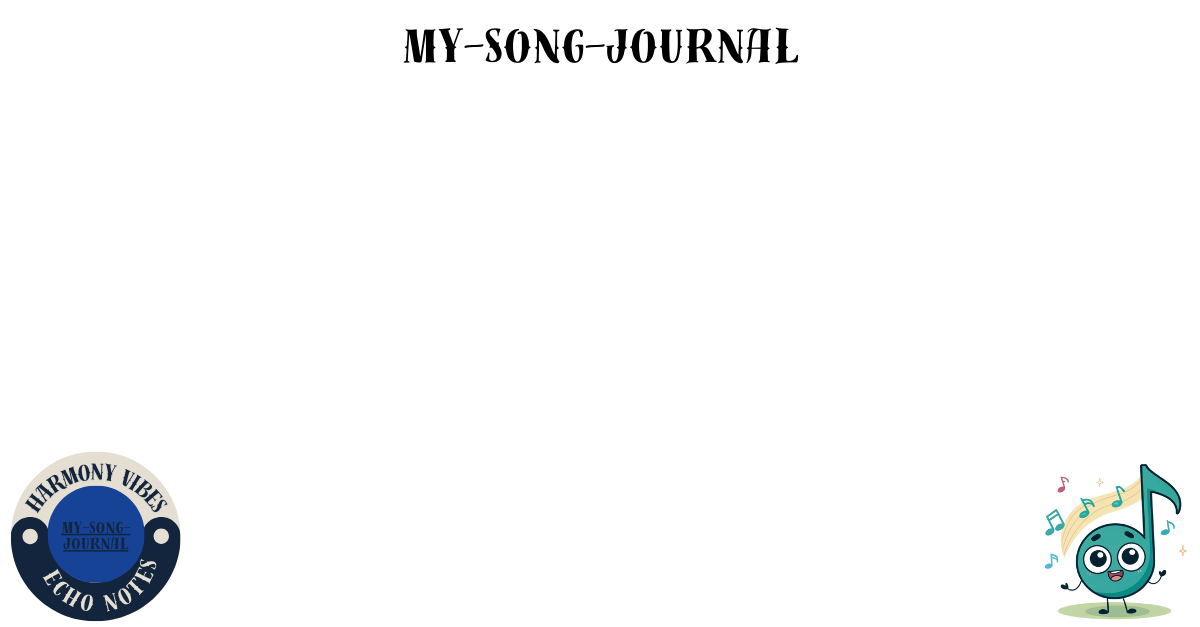
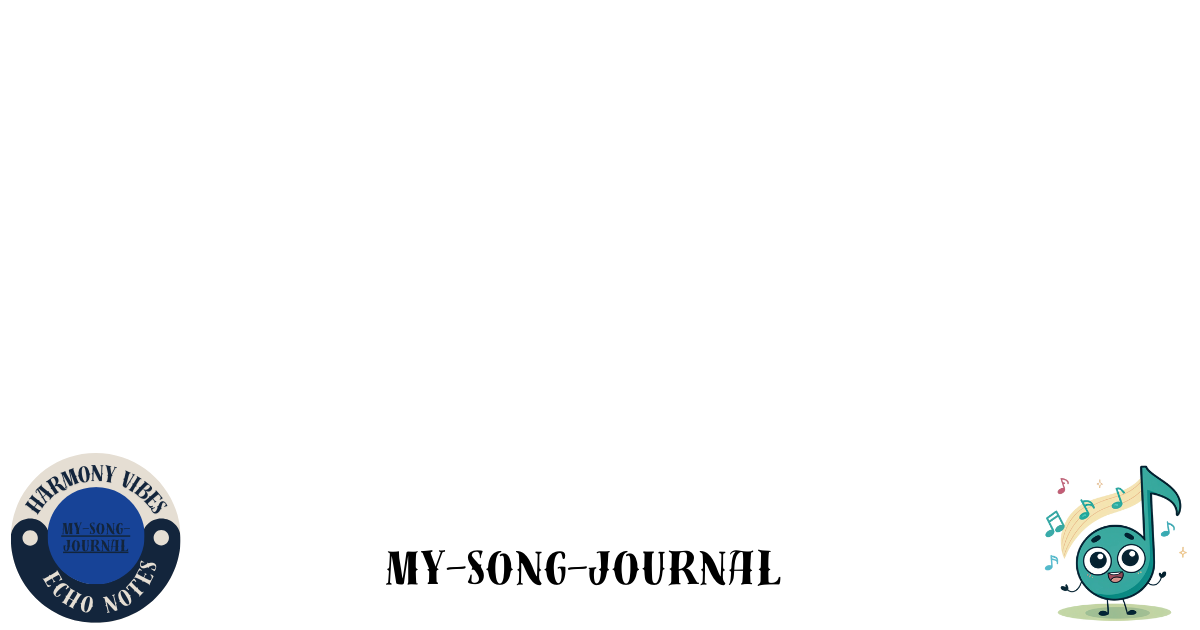
OGP画像の修正

diff --git a/app/controllers/concerns/ogp_creator.rb b/app/controllers/concerns/ogp_creator.rb
@@ -6,18 +6,17 @@ class OgpCreator
   SUBTITLE_FONT_SIZE = 30
   IMAGE_WIDTH = 1200
   IMAGE_HEIGHT = 630
-  ALBUM_IMAGE_SIZE = 380
-  ALBUM_Y_OFFSET = 100
-  TITLE_Y_OFFSET = 70
-  SUBTITLE_Y_OFFSET = 20
+  ALBUM_IMAGE_SIZE = 400
+  ALBUM_Y_OFFSET = 130
 
   def self.build(text, album_image_url = nil)
     Rails.logger.info "=== OGP Image Generation Debug Info ==="
     Rails.logger.info "Input text: #{text.inspect}"
     Rails.logger.info "Album URL: #{album_image_url.inspect}"
 
-    title = "Today's song"
-    subtitle = text.sub(/^Today's song\s*/, "").strip
+    # テキストを行ごとに分割
+    lines = text.split("\n")
+    Rails.logger.info "Split text into lines: #{lines.inspect}"
 
     # ベース画像を読み込む
     base_image = MiniMagick::Image.open(BASE_IMAGE_PATH)
@@ -31,7 +30,7 @@ class OgpCreator
         album_image.resize "#{ALBUM_IMAGE_SIZE}x#{ALBUM_IMAGE_SIZE}"
 
         # 一時ファイルに保存
-        temp_album = Tempfile.new([ "album", ".png" ])
+        temp_album = Tempfile.new(["album", ".png"])
         album_image.write(temp_album.path)
 
         # 画像を合成
@@ -49,38 +48,33 @@ class OgpCreator
       end
     end
 
-    # 一時ファイルに保存
-    temp_base = Tempfile.new([ "base", ".png" ])
-    base_image.write(temp_base.path)
+    # テキストを追加
+    base_image.combine_options do |c|
+      c.font FONT_PATH
+      c.fill "black"
+      c.gravity "north"
 
-    begin
-      # テキストを追加
-      result = MiniMagick::Image.open(temp_base.path)
-
-      # タイトルを追加
-      result.combine_options do |c|
-        c.gravity "south"
-        c.font FONT_PATH
+      # タイトル（Today's song）
+      if lines[0].present?
         c.pointsize FONT_SIZE
-        c.fill "black"
-        c.annotate "+0+#{TITLE_Y_OFFSET}", title
+        c.draw %Q{text 0,40 "#{lines[0].gsub('"', '\\"')}"}
       end
 
-      # サブタイトルを追加
-      result.combine_options do |c|
-        c.gravity "south"
-        c.font FONT_PATH
+      # 曲名とアーティスト名（1行にまとめる）
+      if lines[1].present? && lines[2].present?
         c.pointsize SUBTITLE_FONT_SIZE
-        c.fill "black"
-        c.annotate "+0+#{SUBTITLE_Y_OFFSET}", subtitle
+        c.draw %Q{text 0,90 "#{lines[1].gsub('"', '\\"')}  #{lines[2].gsub('"', '\\"')}"}
       end
-
-      # 最終画像をバイナリで返す
-      result.to_blob
-    ensure
-      temp_base.close
-      temp_base.unlink
     end
+
+    base_image.format "png"
+    result = base_image.to_blob
+    
+    # 画像サイズをログに出力
+    size_in_mb = (result.bytesize.to_f / 1024 / 1024).round(2)
+    Rails.logger.info "Generated OGP image size: #{size_in_mb}MB"
+    
+    result
   rescue => e
     Rails.logger.error "Error in OgpCreator.build: #{e.message}"
     Rails.logger.error e.backtrace.join("\n")

diff --git a/app/controllers/journals_controller.rb b/app/controllers/journals_controller.rb
@@ -245,34 +245,25 @@ class JournalsController < ApplicationController
 
   def prepare_meta_tags
     site_name   = "MY SONG JOURNAL"
-    title       = "Today's song #{@journal.song_name} by #{@journal.artist_name} "
-    description = @journal.content
 
     # OGP画像のURLを生成
+    ogp_text = "Today's song\n#{@journal.song_name} by #{@journal.artist_name}"
     ogp_image_url = if @journal.album_image.present?
-      "#{request.base_url}/images/ogp.png?text=#{CGI.escape("Today's song #{@journal.song_name} by #{@journal.artist_name} ")}&album_image=#{CGI.escape(@journal.album_image)}"
+      "#{request.base_url}/images/ogp.png?text=#{ERB::Util.url_encode(ogp_text)}&album_image=#{ERB::Util.url_encode(@journal.album_image)}"
     else
-      "#{request.base_url}/images/ogp.png?text=#{CGI.escape("Today's song #{@journal.song_name} by #{@journal.artist_name} ")}"
+      "#{request.base_url}/images/ogp.png?text=#{ERB::Util.url_encode(ogp_text)}"
     end
 
     meta_tags = {
       site:        site_name,
-      title:       title,
       image:       ogp_image_url,
-      description: description,
-      keywords:    %w[ MySongJournal],
       og: {
-        title: title,
-        description: description,
-        image: ogp_image_url,
         site_name: site_name,
+        image: ogp_image_url,
         type: "article"
       },
       twitter: {
         card: "summary_large_image",
-        site: "@MySongJournal",
-        title: title,
-        description: description,
         image: ogp_image_url
       }
     }
